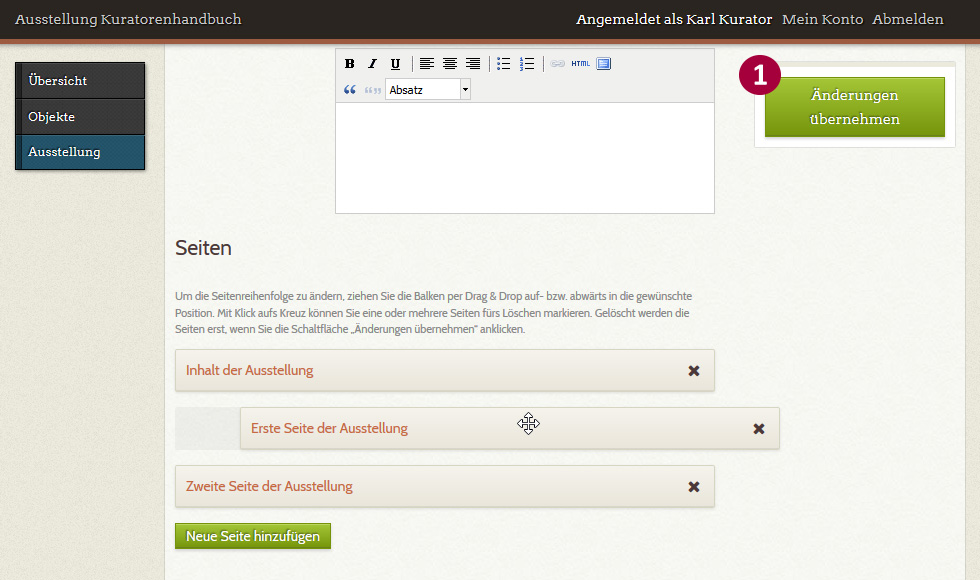
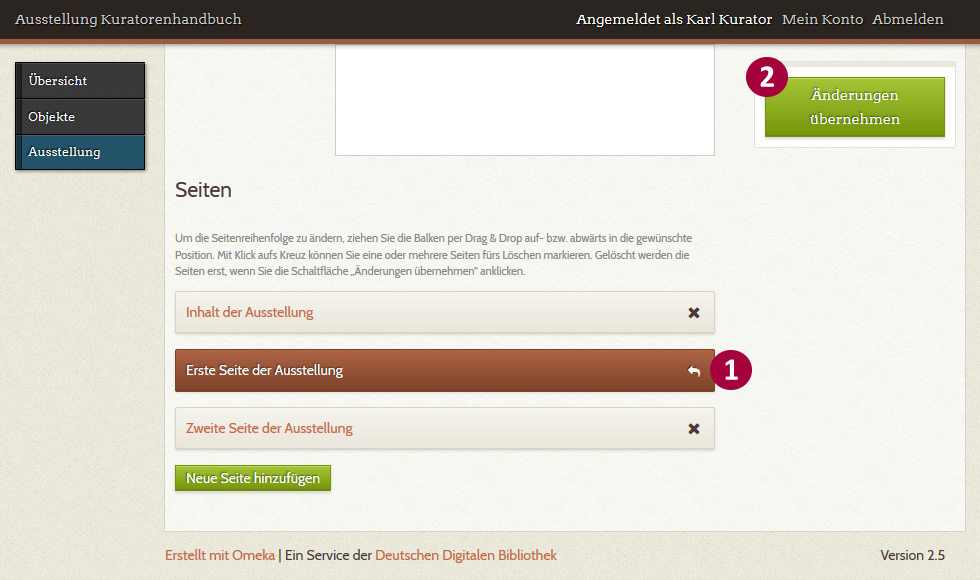
renumbered illustrations B.4.12-21

diff --git a/docs/seiten_anlegen.md b/docs/seiten_anlegen.md
@@ -103,18 +103,19 @@ Für die Texteingabe steht Ihnen ein Editor zur Verfügung (Abb. 4.12), mit dem 
 
 Über die genauen Formatierungsmöglichkeiten informiert der Abschnitt C.2 im Anhang.
 
-!![Abb. B.4.13 Der Texteditor][B-4-13]
+!![Abb. B.4.12 Der Texteditor][B-4-12]
 
 Das Einfügen eines Objekts erfolgt über die Schaltfläche „Objekt hinzufügen“ (Abb. B.4.14, <span class="red-circle">a</span>) des jeweiligen Inhaltselements. Zum Auswählen des Objekts öffnet sich das Dialogfenster „Objekt hinzufügen“ (Abb. B.4.15).
 
-!![Abb. B.4.14 Objekt hinzufügen][B-4-14]
-!![Abb. B.4.15 Dialogfenster „Objekt hinzufügen“][B-4-15]
+!![Abb. B.4.13 Objekt hinzufügen][B-4-13]
+
+!![Abb. B.4.14 Dialogfenster „Objekt hinzufügen“][B-4-14]
 
 Sie können die Liste aller Objekte durchblättern, um das gewünschte Objekt auszuwählen und über die Schaltfläche „Ausgewähltes Objekt hinzufügen“ in die Ausstellungsseite einzubinden.
 
 Nach dem Einfügen des Objekts ist die Anzeige des Objekt-Inhaltselements erweitert (Abb. B.4.16). Oben links erscheint der Titel des Objekts und Vorschaubild (<span class="red-circle">a</span>). Darunter bietet ein Editor die Möglichkeit, eine Bildunterschrift einzufügen (<span class="red-circle">b</span>). Wenn Sie das Objekt von Ihrer Ausstellungs-Seite wieder entfernen möchten, klicken Sie auf die Schaltfläche „Dieses Objekt entfernen“ (<span class="red-circle">c</span>). Vorsicht: Das Objekt wird sofort und endgültig gelöscht, ohne dass Sie noch einmal um eine Bestätigung gebeten werden.
 
-!![Abb. B.4.16 Inhaltselement Objekt – hier ein Hauptbild][B-4-16]
+!![Abb. B.4.15 Inhaltselement Objekt – hier ein Hauptbild][B-4-15]
 
 !!!note "Bildlegenden werden nur bei Hauptbildern ausgegeben"
 
@@ -137,7 +138,7 @@ Sie können nach Abschluss Ihrer Arbeiten an der aktuellen Seite einfach eine ne
 Die von Ihnen bereits angelegten Seiten erscheinen auf der Seite „Ausstellung …“ als blassgraue, mit dem Seitentitel beschriftete Balken. Mit diesen Balken können Sie die Anordnung Ihrer Seiten ganz einfach und intuitiv per „Drag & Drop“ anpassen. 
 Fahren Sie dazu mit dem Mauszeiger über den Balken der betreffenden Seite (nicht über den Titel oder das „x“). Der Zeiger Ihrer Maus ändert sich dabei von einem einfachen Pfeil zu einem Vier-Wege-Pfeil. Wenn Sie nun die linke Maustaste gedrückt halten, können Sie den Balken verschieben (Abb. 4.17). 
 
-!![Abb. B.4.17 Sortieren der Ausstellungsseiten per Drag and Drop][B-4-17]
+!![Abb. B.4.16 Sortieren der Ausstellungsseiten per Drag and Drop][B-4-16]
 
 Positionieren Sie den Balken an die gewünschte Stelle und geben die linke Maustaste wieder frei. Die geänderte Reihenfolge wird nun angezeigt – Sie haben die Seiten umsortiert. Diese Änderungen werden allerdings erst übernommen, wenn Sie Ihre Ausstellung speichern. Vergessen Sie also nicht, nach dem Umsortieren auf die Schaltfläche „Änderungen übernehmen“ (<span class="red-circle">1</span>) zu klicken.
 
@@ -145,7 +146,7 @@ Positionieren Sie den Balken an die gewünschte Stelle und geben die linke Maust
 
 Um eine Seite aus Ihrer Ausstellung zu entfernen, können Sie in der der Seitenliste auf das „x“ am rechten Rand des entsprechenden Balkens klicken (Abb. 4.18, <span class="red-circle">1</span>). Die Seite ist dann zum Löschen vorgemerkt – der Balken ist nun braun hinterlegt und aus dem „x“ ist ein Rückgängigmachen-Pfeil geworden. Erst nachdem Sie Ihre Eingaben mit „Änderungen übernehmen“ (<span class="red-circle">2</span>) gespeichert haben, wird die Seite – dann allerdings unwiderruflich – gelöscht und der Balken verschwindet aus der Liste. Wenn Sie im braunen Balken auf das Pfeilsymbol klicken oder die Seite „Ausstellung …“ verlassen, ohne gespeichert zu haben, bleiben die zur Löschung vorgemerkten Seiten erhalten.
 
-!![Abb. B.4.18 Seiten aus der Seitenliste löschen][B-4-18]
+!![Abb. B.4.17 Seiten aus der Seitenliste löschen][B-4-17]
 
 #### B.4.4.3 Änderungen auf bestehenden Seiten
 
@@ -179,7 +180,7 @@ Bei den meisten Layouts sind Texte und Objekte auf zwei Spalten aufgeteilt: Text
 
     Es ist sinnlos, den Spaltenumbruch durch Zeilenumbrüche, Absätze, Leerzeilen oder mit ähnlichen „Manipulationen“ erzwingen zu wollen, er würde dann nur für genau die Fensterbreite passen, in der Sie das Frontend gerade betrachten. Wenn Sie dieses Fenster groß und klein ziehen, wird Ihnen dieser Zusammenhang sofort anschaulich.
 
-!![Abb. B.4.19 Eingabe zweispaltiger Text im Layout Vorschaubilder-Galerie mit optionalem Text oben und unten - unterer Textblock mit Überschrift][B-4-19]
+!![Abb. B.4.18 Eingabe zweispaltiger Text im Layout Vorschaubilder-Galerie mit optionalem Text oben und unten - unterer Textblock mit Überschrift][B-4-18]
 
 Für die Eingabe des zweispaltigen Textblocks **unter** der Bildergalerie steht Ihnen ein spezielles Feld für die Überschrift des Blocks zur Verfügung (Abb. B.4.19, <span class="red-circle">1</span>). Normalerweise werden Überschriften im Textfeld eingegeben und per Auswahlliste als Überschrift einer bestimmten Ebene formatiert. Da die Überschrift hier aber über beide Spalten des Textblocks laufen soll, erfolgt die Eingabe separat. Auch hier sollten Sie dem Text der Überschrift ein Überschriften-Format zuweisen. Im folgenden Feld (<span class="red-circle">2</span>) können Sie den Text eingeben, der – wie der Text oberhalb der Vorschaubilder-Galerie – im Frontend automatisch zweispaltig ausgegeben wird.
 
@@ -191,7 +192,7 @@ Bei sehr kleinen Fensterbreiten (z. B. von mobilen Browsern) sorgt das responsiv
 
 Eine andere Form von zweispaltiger Textanordnung bieten die Layouts 1, 2, 6 und 7. Hier lässt sich in der rechten Spalte unterhalb der Objekte ein Textblock einfügen (Abb. B.4.20, <span class="red-circle">1</span>). 
 
-!![Abb. B.4.20 Texteingabe für die rechte Spalte unterhalb der Objekte][B-4-20]
+!![Abb. B.4.19 Texteingabe für die rechte Spalte unterhalb der Objekte][B-4-19]
 
 Bei den Layouts 1 und 2 ist zudem die Möglichkeit vorgesehen, zweispaltig gesetzte Textblöcke mit automatischem Spaltenumbruch im unteren Teil der Ausstellungsseite einzufügen, analog zum Galerie-Layout 3 mit über die ganze Breite des Inhalts-Bereichs laufenden Überschriften. Auch hier finden Sie die entsprechenden Eingabefelder unterhalb der Schaltflächen zur Einbindung von Objekten (vgl. Abb. B.4.19). 
 
@@ -205,9 +206,9 @@ Als letzten Teil einer Ausstellung ist ein Apparat mit ergänzenden Informatione
 
 Die Seite für das Inhaltsverzeichnis ist bereits angelegt und mit dem passenden Template verknüpft. Das Inhaltsverzeichnis selbst wird vom Online-Tool automatisch erstellt. Sie können diese Liste der Ausstellungs-Seiten mit einer kurzen Einleitung (Abb. B.4.21, <span class="red-circle">1</span>) und nachgestellten Erläuterungen (Abb. B.4.22, <span class="red-circle">1</span>) versehen.
 
-!![Abb. B.4.21 Texteingabe Einleitung zum Inhaltsverzeichnis][B-4-21]
+!![Abb. B.4.20 Texteingabe Einleitung zum Inhaltsverzeichnis][B-4-20]
 
-!![Abb. B.4.22 Texteingabe nachgestellte Erläuterungen zum Inhaltsverzeichnis][B-4-22]
+!![Abb. B.4.21 Texteingabe nachgestellte Erläuterungen zum Inhaltsverzeichnis][B-4-21]
 
 Für die anderen Seiten des Apparats verwenden Sie das Layout 1 (ohne Objekte einzubinden) oder Layout 3 für zweispaltige Texte.
 
@@ -227,13 +228,13 @@ Das Vorschaubild für die grafische Seitennavigation (vgl. Abschnitt 4.1) ist hi
 [B-4-9]: img/B-4-9.jpg "Abb. B.4.9 Layout 6 – Bilder rechts"
 [B-4-10]: img/B-4-10.jpg "Abb. B.4.10 Layout 7 – große, fortlaufende Bilder rechts"
 [B-4-11]: img/B-4-11.jpg "Abb. B.4.11 Layout 8 – kleine, fortlaufende Bilder rechts"
-[B-4-13]: img/B-4-13.jpg "Abb. B.4.13 Der Texteditor"
-[B-4-14]: img/B-4-14.jpg "Abb. B.4.14 Objekt hinzufügen"
-[B-4-15]: img/B-4-15.jpg "Abb. B.4.15 Dialogfenster „Objekt hinzufügen“"
-[B-4-16]: img/B-4-16.jpg "Abb. B.4.16 Inhaltselement Objekt – hier ein Hauptbild"
-[B-4-17]: img/B-4-17.jpg "Abb. B.4.17 Sortieren der Ausstellungsseiten durch Drag and Drop"
-[B-4-18]: img/B-4-18.jpg "Abb. B.4.18 Seiten aus der Seitenliste löschen"
-[B-4-19]: img/B-4-19.jpg "Abb. B.4.19 Eingabe zweispaltiger Text im Layout Vorschaubilder-Galerie mit optionalem Text oben und unten – unterer Textblock mit Überschrift"
-[B-4-20]: img/B-4-20.jpg "Abb. B.4.20 Texteingabe für die rechte Spalte unterhalb der Objekte"
-[B-4-21]: img/B-4-21.jpg "Abb. B.4.21 Texteingabe Einleitung zum Inhaltsverzeichnis"
-[B-4-22]: img/B-4-22.jpg "Abb. B.4.22 Texteingabe nachgestellte Erläuterungen zum Inhaltsverzeichnis"
+[B-4-12]: img/B-4-12.jpg "Abb. B.4.13 Der Texteditor"
+[B-4-13]: img/B-4-13.jpg "Abb. B.4.14 Objekt hinzufügen"
+[B-4-14]: img/B-4-14.jpg "Abb. B.4.15 Dialogfenster „Objekt hinzufügen“"
+[B-4-15]: img/B-4-15.jpg "Abb. B.4.16 Inhaltselement Objekt – hier ein Hauptbild"
+[B-4-16]: img/B-4-16.jpg "Abb. B.4.17 Sortieren der Ausstellungsseiten durch Drag and Drop"
+[B-4-17]: img/B-4-17.jpg "Abb. B.4.18 Seiten aus der Seitenliste löschen"
+[B-4-18]: img/B-4-18.jpg "Abb. B.4.19 Eingabe zweispaltiger Text im Layout Vorschaubilder-Galerie mit optionalem Text oben und unten – unterer Textblock mit Überschrift"
+[B-4-19]: img/B-4-19.jpg "Abb. B.4.20 Texteingabe für die rechte Spalte unterhalb der Objekte"
+[B-4-20]: img/B-4-20.jpg "Abb. B.4.21 Texteingabe Einleitung zum Inhaltsverzeichnis"
+[B-4-21]: img/B-4-21.jpg "Abb. B.4.22 Texteingabe nachgestellte Erläuterungen zum Inhaltsverzeichnis"
